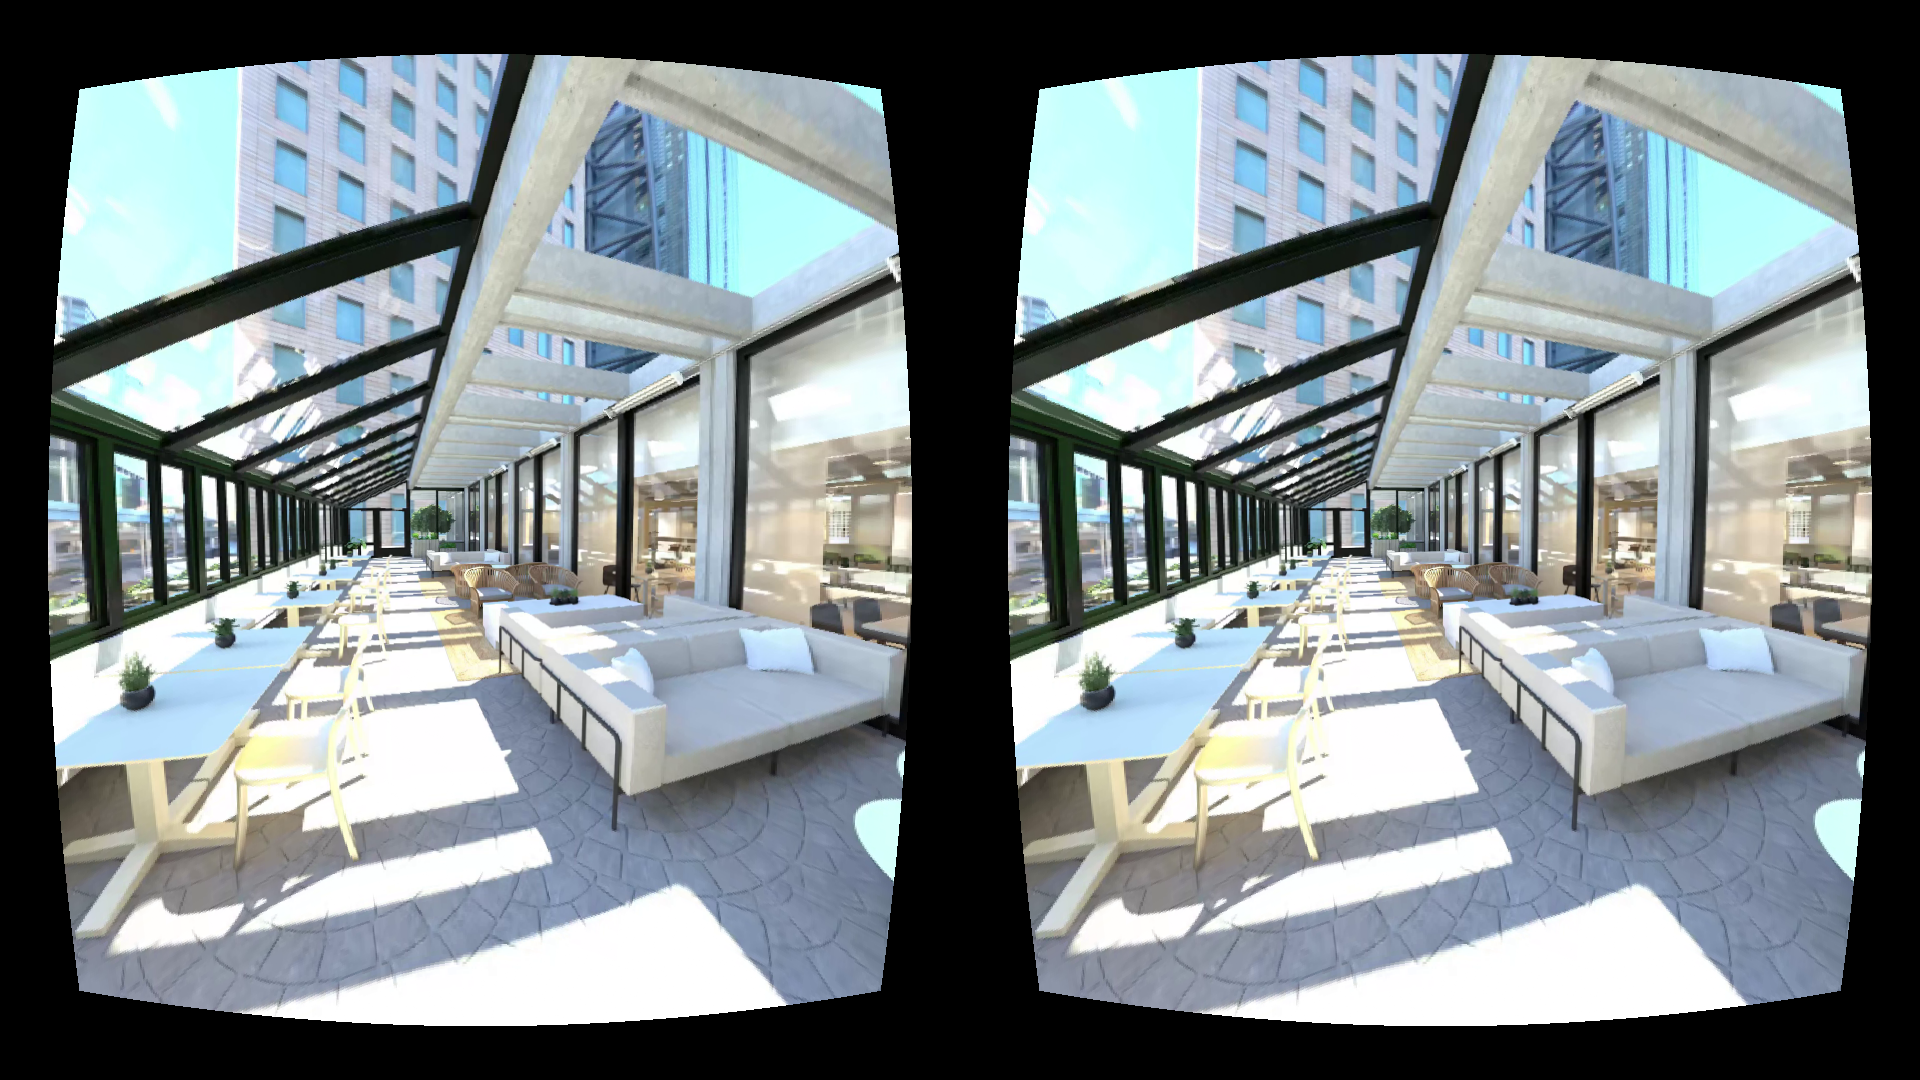
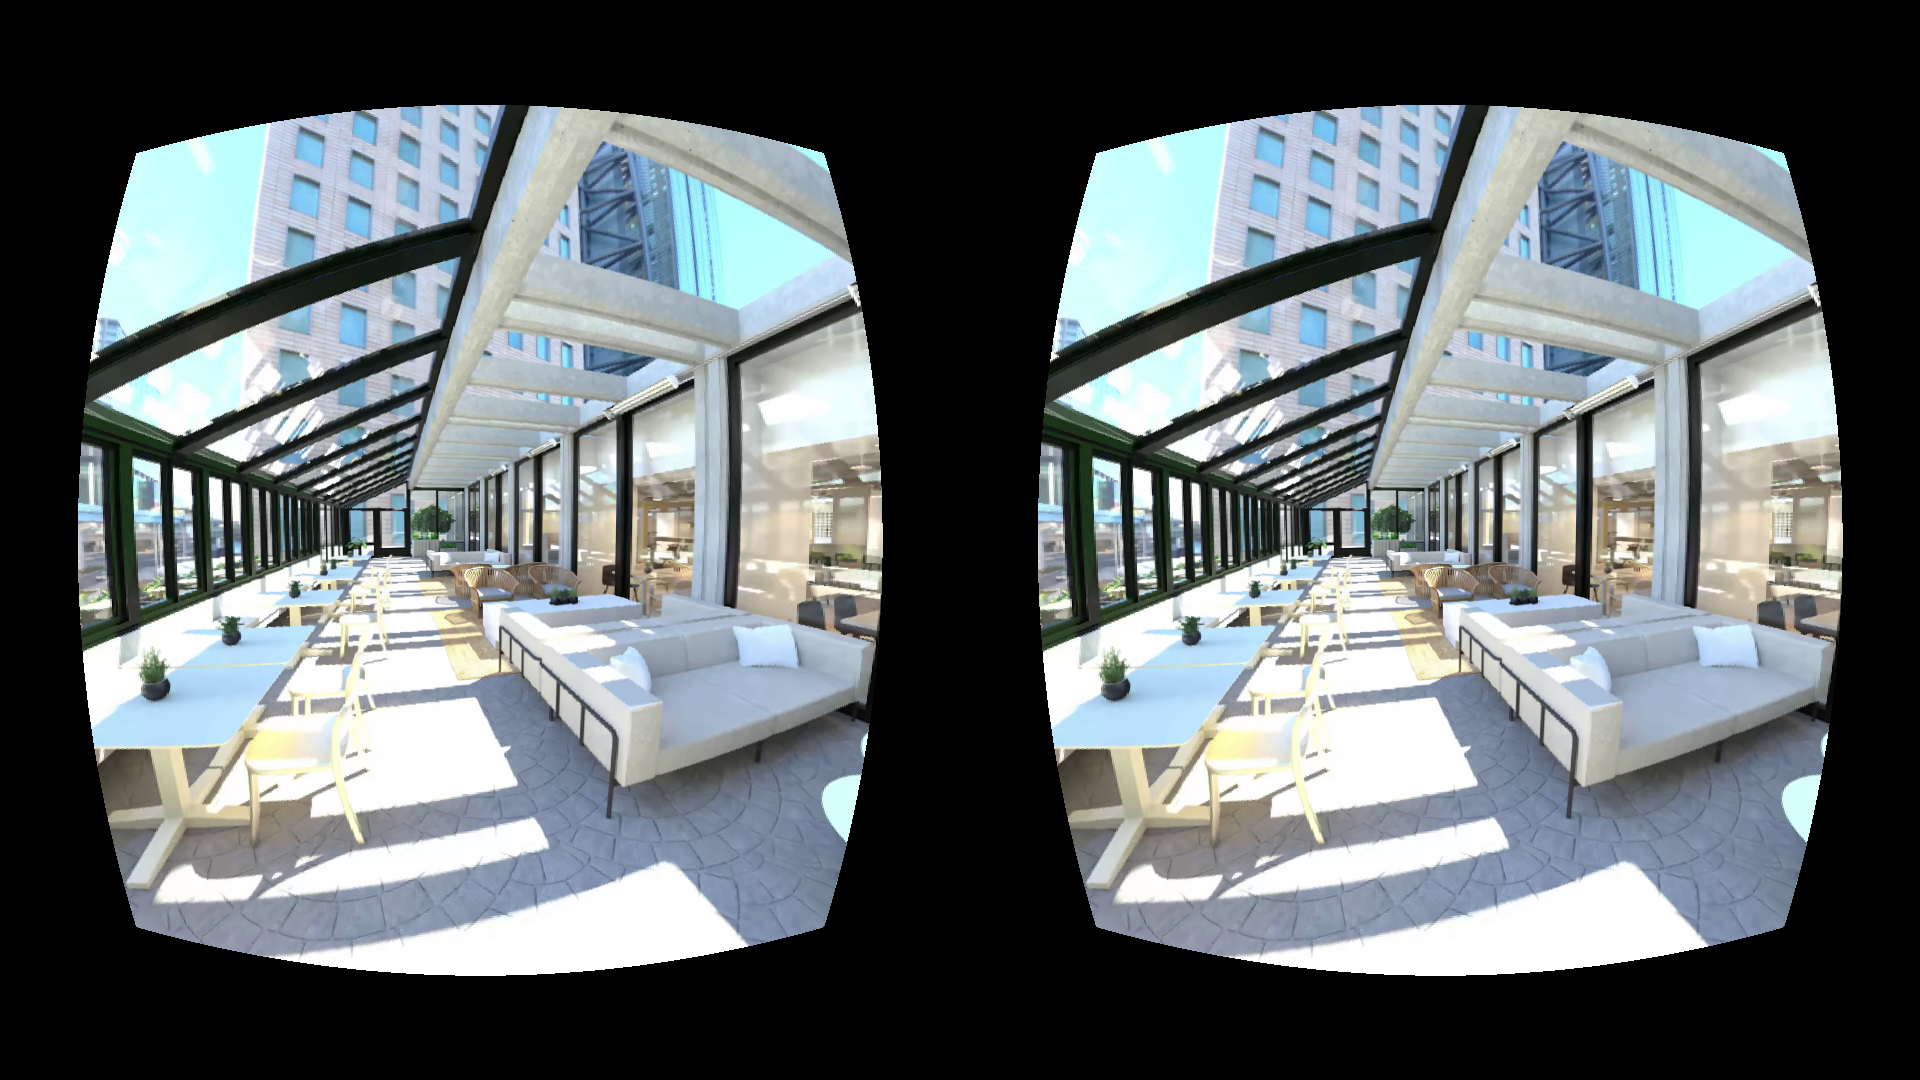
add pre distortion

diff --git a/vr_projection/pre_distortion.py b/vr_projection/pre_distortion.py
@@ -38,16 +38,19 @@ def distort_pixel(x, y, k1, k2, cx, cy, width, height):
     """
     x = x - cx
     y = y - cy
-    x = float(x) / float(width)
-    y = float(y) / float(height)
+    # x = float(x) / float(width)
+    # y = float(y) / float(height)
+    z = width*0.7
+    x = x / z
+    y = y / z
     r2 = x**2 + y**2
     factor = 1 + k1 * r2 + k2 * r2**2
 
     x_distorted = x * factor
     y_distorted = y * factor
 
-    x_distorted = x_distorted * width
-    y_distorted = y_distorted * height
+    x_distorted = x_distorted * z
+    y_distorted = y_distorted * z
 
     x_distorted = x_distorted + cx
     y_distorted = y_distorted + cy
@@ -77,7 +80,7 @@ def pre_distort_image(image, k1, k2, cx, cy):
 image_name =  "middle_perspective_image.png" # Load your image here
 image = cv2.imread(image_name)
 height, width = image.shape[:2]
-k1, k2 = 0.51, 0.16 # Radial distortion coefficients
+k1, k2 = 0.33582564, 0.55348791 # Radial distortion coefficients
 cx, cy = width / 2, height / 2 # Assuming center of the image is the optical center
 pre_distorted_image = pre_distort_image(image, k1, k2, cx, cy)
 
